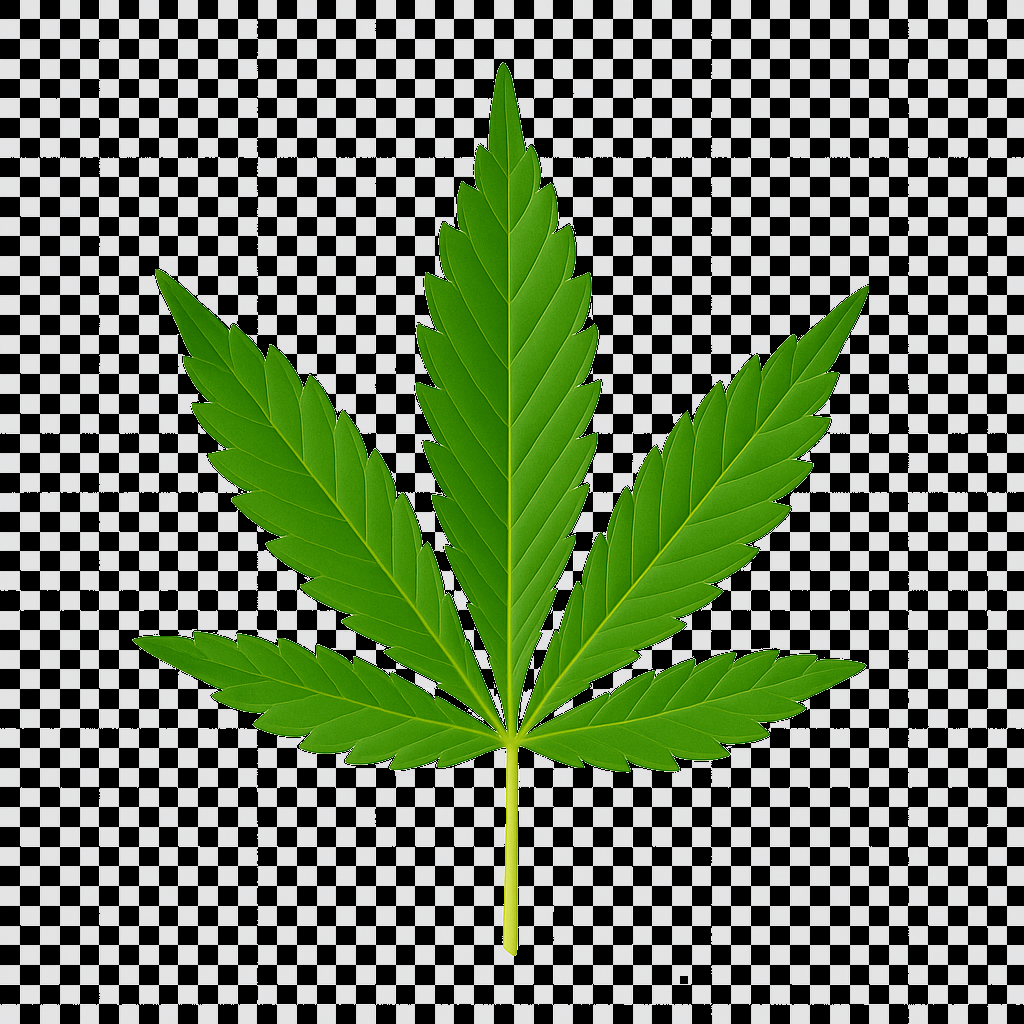
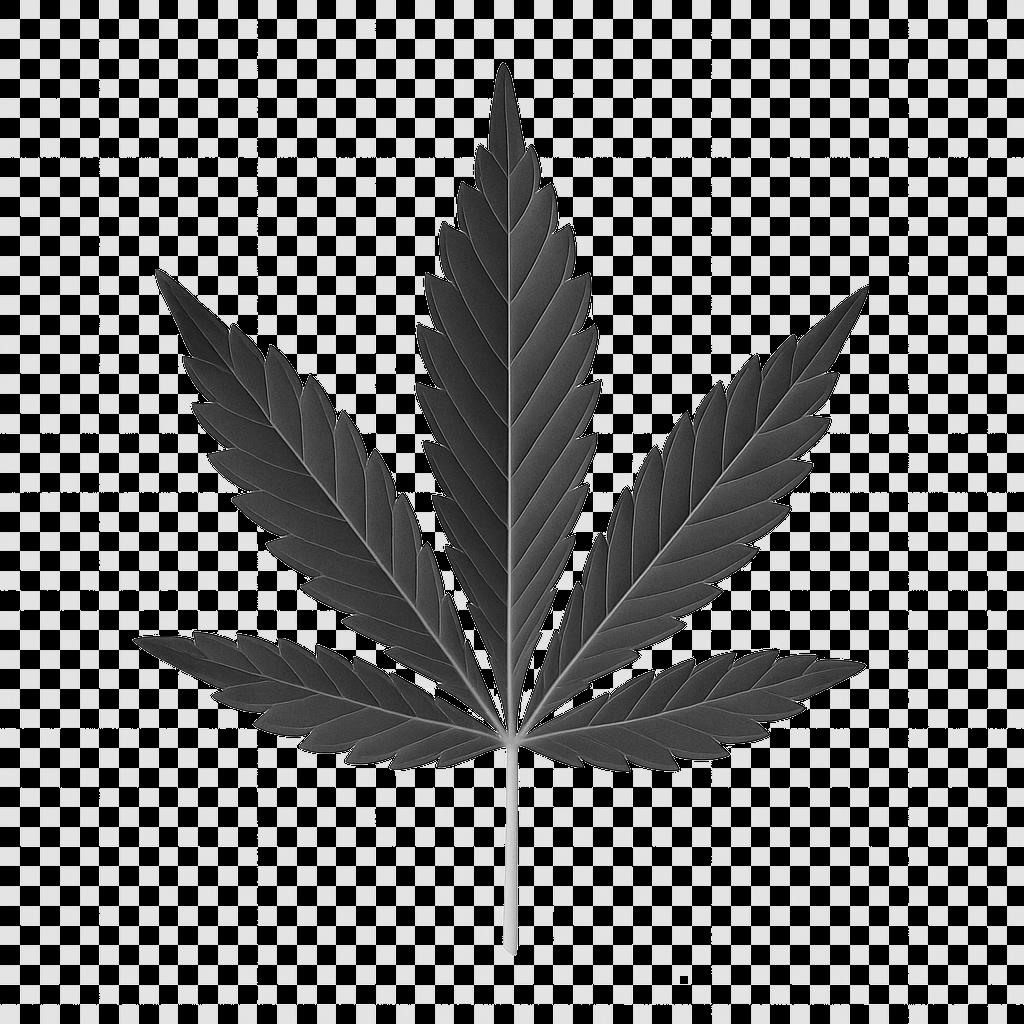
Fix hero.png - remove checkered pattern behind leaf
- Composited original leaf onto solid black circle background
- Removed all transparency and checkered pattern
- Flattened to grayscale PNG (no alpha channel)
- Updated cache-busting to v=3 to force browser reload
- Clean solid black background with leaf on top

Changed region(s): [[0.125, 0.0625, 0.8438, 0.9375]]

diff --git a/frontend/src/components/Home.jsx b/frontend/src/components/Home.jsx
@@ -129,7 +129,7 @@ export default function Home({ onNavigate }) {
               }}
             >
               <img
-                src="/hero.png"
+                src="/hero.png?v=3"
                 alt="StrainSpotter"
                 style={{ width: '70%', height: '70%', objectFit: 'contain' }}
               />
